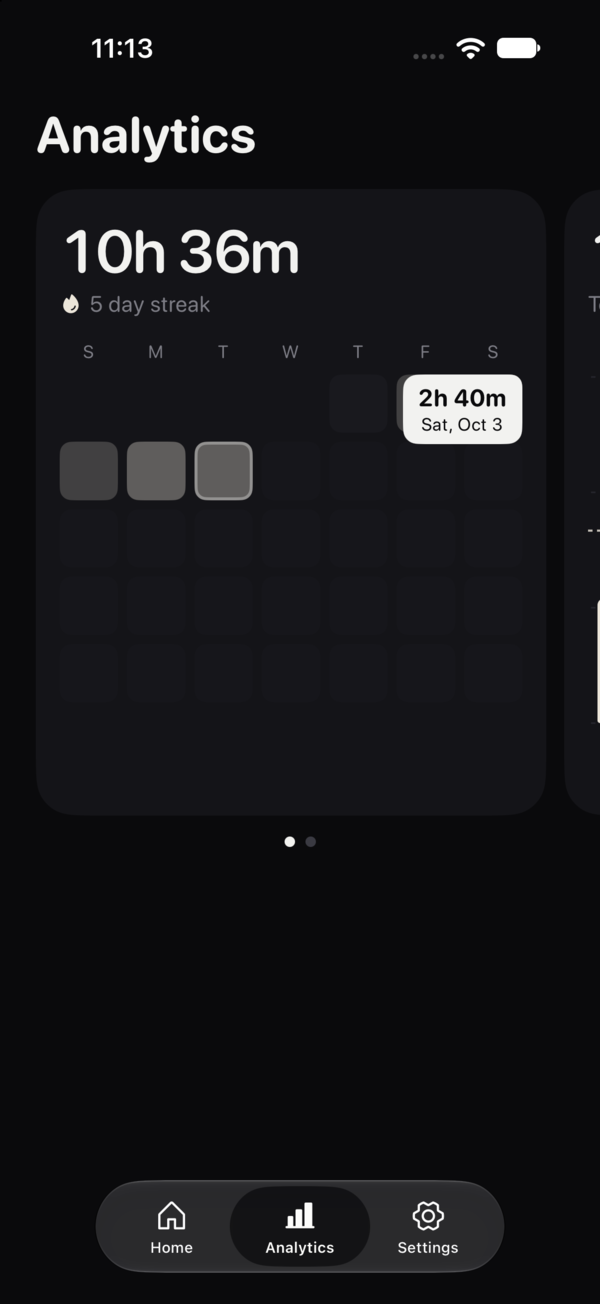
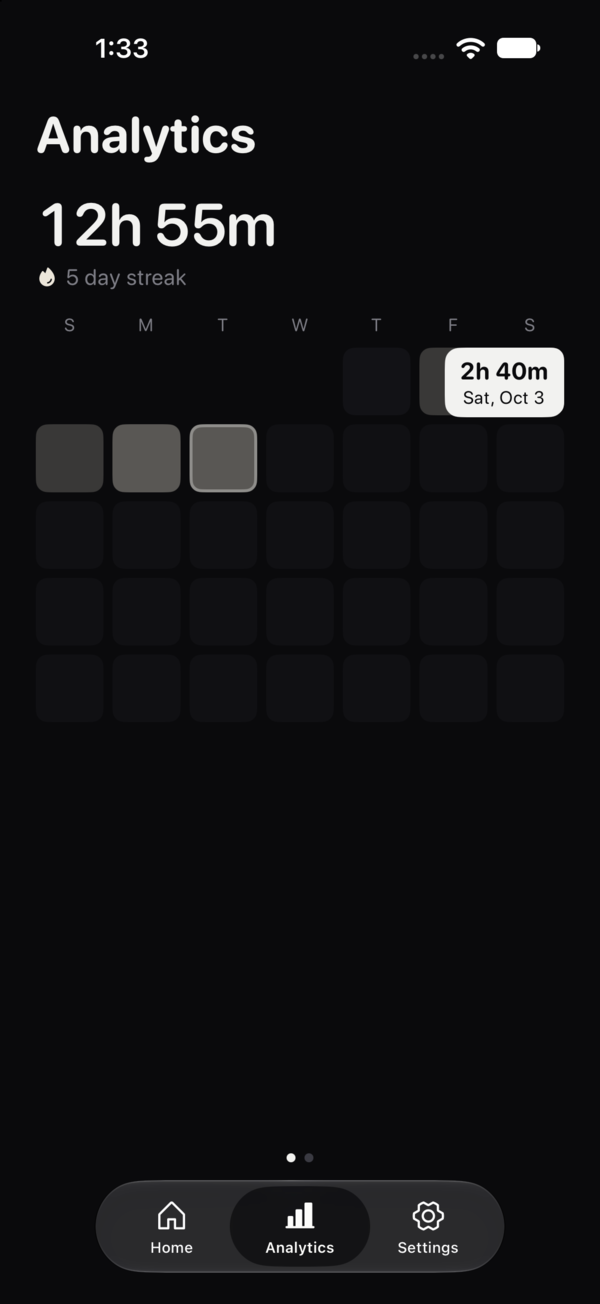
Make Analytics full screen with a simple week chart
The two slides now fill the screen with small page dots. The week chart has no axis numbers or grid lines. The day bubble goes away after 2 seconds.

diff --git a/Zone/AnalyticsView.swift b/Zone/AnalyticsView.swift
@@ -3,7 +3,7 @@ import SwiftUI
 
 struct AnalyticsView: View {
     @Environment(ZoneStore.self) private var store
-    @State private var page: Int? = 0
+    @State private var page = 0
 
     var body: some View {
         VStack(spacing: 0) {
@@ -11,30 +11,20 @@ struct AnalyticsView: View {
             // Update every minute, so the current session counts as it runs.
             TimelineView(.periodic(from: .now, by: 60)) { context in
                 let stats = ZoneStats(sessions: store.sessions(at: context.date), now: context.date)
-                ScrollView(.horizontal) {
-                    LazyHStack(spacing: 12) {
-                        MonthCard(stats: stats).card().id(0)
-                        WeekCard(stats: stats).card().id(1)
-                    }
-                    .scrollTargetLayout()
+                TabView(selection: $page) {
+                    MonthPage(stats: stats).page().tag(0)
+                    WeekPage(stats: stats).page().tag(1)
                 }
-                .contentMargins(.horizontal, 24, for: .scrollContent)
-                .scrollTargetBehavior(.viewAligned)
-                .scrollIndicators(.hidden)
-                .scrollPosition(id: $page)
+                .tabViewStyle(.page(indexDisplayMode: .never))
             }
-            // Fits the month grid with 6 rows of weeks.
-            .frame(height: 420)
-            .padding(.top, 16)
-            HStack(spacing: 7) {
+            HStack(spacing: 6) {
                 ForEach(0..<2, id: \.self) { index in
                     Circle()
                         .fill(page == index ? Color.zoneInk : Color(rgb: 0x3A3A42))
-                        .frame(width: 7, height: 7)
+                        .frame(width: 6, height: 6)
                 }
             }
-            .padding(.vertical, 14)
-            Spacer()
+            .padding(.vertical, 12)
         }
         .frame(maxWidth: .infinity, maxHeight: .infinity)
         .background(Color.zoneBackground)
@@ -42,13 +32,22 @@ struct AnalyticsView: View {
 }
 
 private extension View {
-    // A card that leaves the next card in view at the edge.
-    func card() -> some View {
-        padding(.horizontal, 16)
-            .padding(.top, 18)
-            .frame(maxHeight: .infinity, alignment: .top)
-            .background(Color.zoneCard, in: .rect(cornerRadius: 26))
-            .containerRelativeFrame(.horizontal) { width, _ in width - 12 }
+    func page() -> some View {
+        padding(.horizontal, 24)
+            .padding(.top, 16)
+            .frame(maxWidth: .infinity, maxHeight: .infinity, alignment: .top)
+    }
+}
+
+private extension View {
+    // The bubble is a tooltip: it goes away by itself.
+    func hidesSelection(_ selected: Binding<Date?>) -> some View {
+        task(id: selected.wrappedValue) {
+            guard selected.wrappedValue != nil,
+                  (try? await Task.sleep(for: .seconds(2))) != nil
+            else { return }
+            withAnimation(.easeOut(duration: 0.15)) { selected.wrappedValue = nil }
+        }
     }
 }
 
@@ -102,7 +101,7 @@ private struct Bubble: View {
 }
 
 // Slide 1: a square for each day of this month, brighter for more time in the Zone.
-private struct MonthCard: View {
+private struct MonthPage: View {
     let stats: ZoneStats
     @State private var selected: Date?
 
@@ -118,6 +117,7 @@ private struct MonthCard: View {
             grid(days)
                 .padding(.top, 8)
         }
+        .hidesSelection($selected)
     }
 
     private var weekdayHeader: some View {
@@ -178,7 +178,7 @@ private struct MonthCard: View {
             .contentShape(.rect)
             .onTapGesture {
                 guard !future else { return }
-                selected = isSelected ? nil : item.day
+                withAnimation(.easeOut(duration: 0.1)) { selected = isSelected ? nil : item.day }
             }
             .accessibilityElement()
             .accessibilityLabel(item.day.formatted(date: .complete, time: .omitted))
@@ -198,7 +198,7 @@ private struct MonthCard: View {
 }
 
 // Slide 2: the last 7 days as bars, like Screen Time, with the daily average.
-private struct WeekCard: View {
+private struct WeekPage: View {
     let stats: ZoneStats
     @State private var selected: Date?
 
@@ -206,7 +206,8 @@ private struct WeekCard: View {
         let days = stats.lastDays(7)
         let total = days.reduce(0) { $0 + $1.time }
         let average = total / 7
-        let top = max(3, (days.map(\.time).max() ?? 0) / 3600).rounded(.up)
+        // Room above the tallest bar for the bubble.
+        let top = max(1, (days.map(\.time).max() ?? 0) / 3600) * 1.3
         VStack(spacing: 0) {
             Readout(value: zoneTimeText(average), detail: "Total \(zoneTimeText(total))")
             Chart {
@@ -225,27 +226,11 @@ private struct WeekCard: View {
                     }
                 }
                 RuleMark(y: .value("Average", average / 3600))
-                    .foregroundStyle(Color.zoneBone.opacity(0.8))
+                    .foregroundStyle(Color.zoneBone.opacity(0.5))
                     .lineStyle(StrokeStyle(lineWidth: 1.5, dash: [3, 3]))
-                    .annotation(position: .trailing, alignment: .center, spacing: 4) {
-                        Text("avg")
-                            .font(.system(size: 11))
-                            .foregroundStyle(Color.zoneBone)
-                    }
             }
             .chartYScale(domain: 0...top)
-            .chartYAxis {
-                AxisMarks(position: .trailing, values: .stride(by: 1)) { value in
-                    AxisGridLine(stroke: StrokeStyle(lineWidth: 1, dash: [3, 3]))
-                        .foregroundStyle(Color(rgb: 0x26262D))
-                    AxisValueLabel {
-                        if let hours = value.as(Double.self) {
-                            Text(hours == 0 ? "0" : "\(Int(hours))h")
-                        }
-                    }
-                    .foregroundStyle(Color.zoneMute)
-                }
-            }
+            .chartYAxis(.hidden)
             .chartXAxis {
                 AxisMarks(values: .stride(by: .day)) {
                     AxisValueLabel(format: .dateTime.weekday(.narrow), centered: true)
@@ -263,12 +248,14 @@ private struct WeekCard: View {
                             guard let date: Date = proxy.value(atX: x) else { return }
                             let day = Calendar.current.startOfDay(for: date)
                             guard days.contains(where: { $0.day == day }) else { return }
-                            selected = selected == day ? nil : day
+                            withAnimation(.easeOut(duration: 0.1)) { selected = selected == day ? nil : day }
                         }
                 }
             }
-            .frame(height: 250)
+            .frame(maxHeight: .infinity)
             .padding(.top, 24)
+            .padding(.bottom, 8)
         }
+        .hidesSelection($selected)
     }
 }
